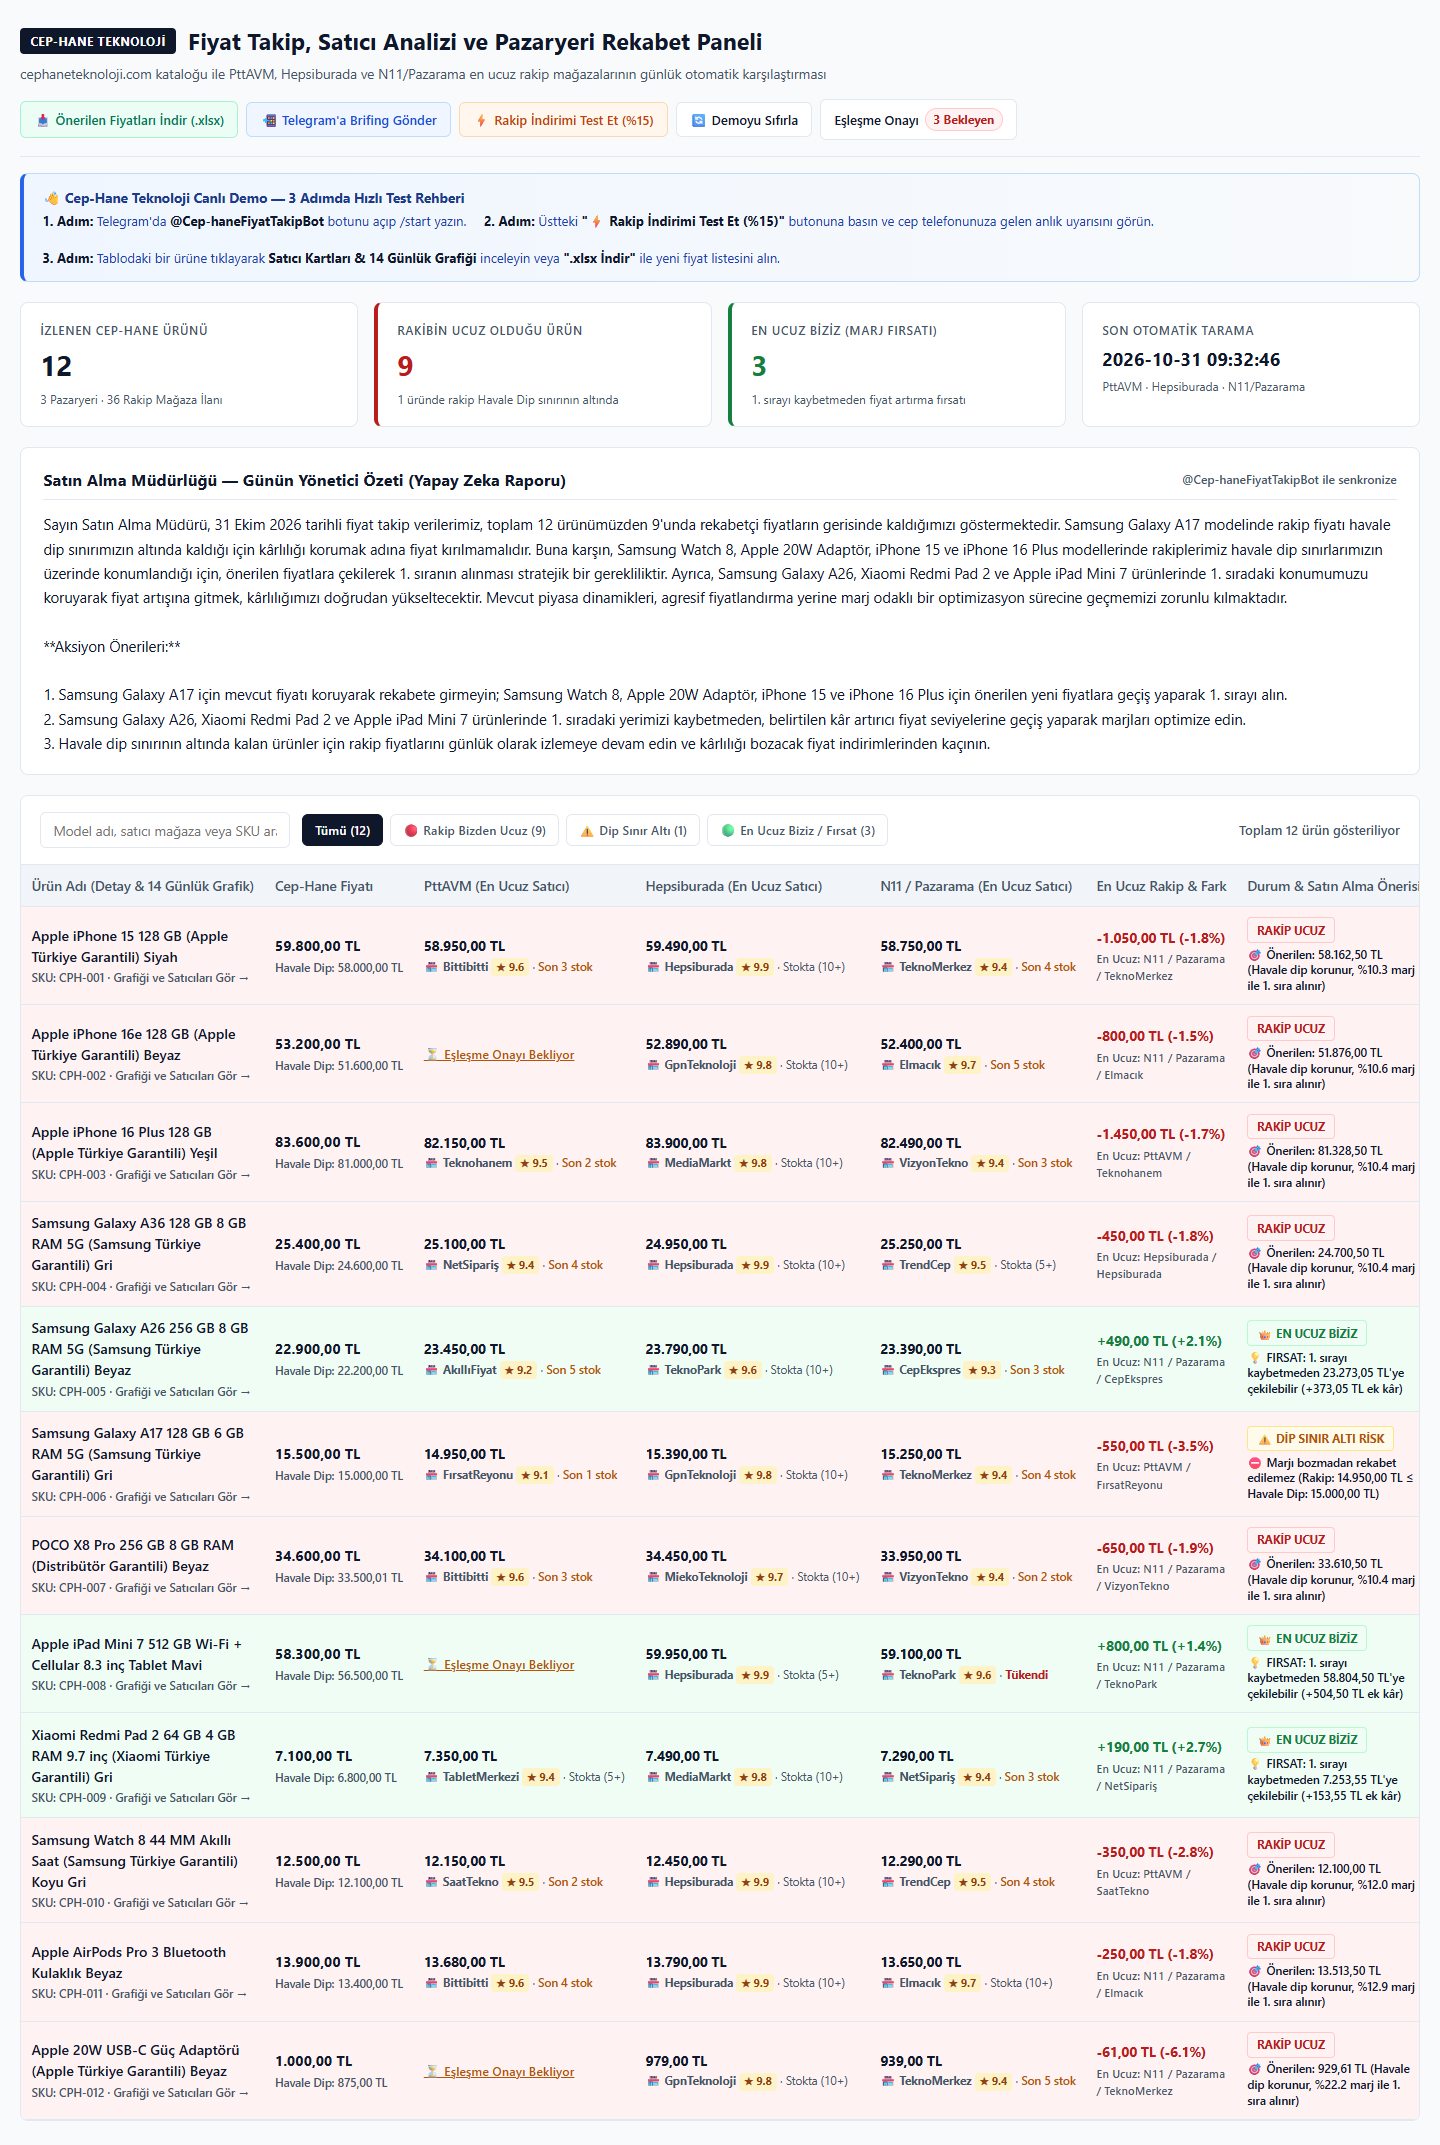
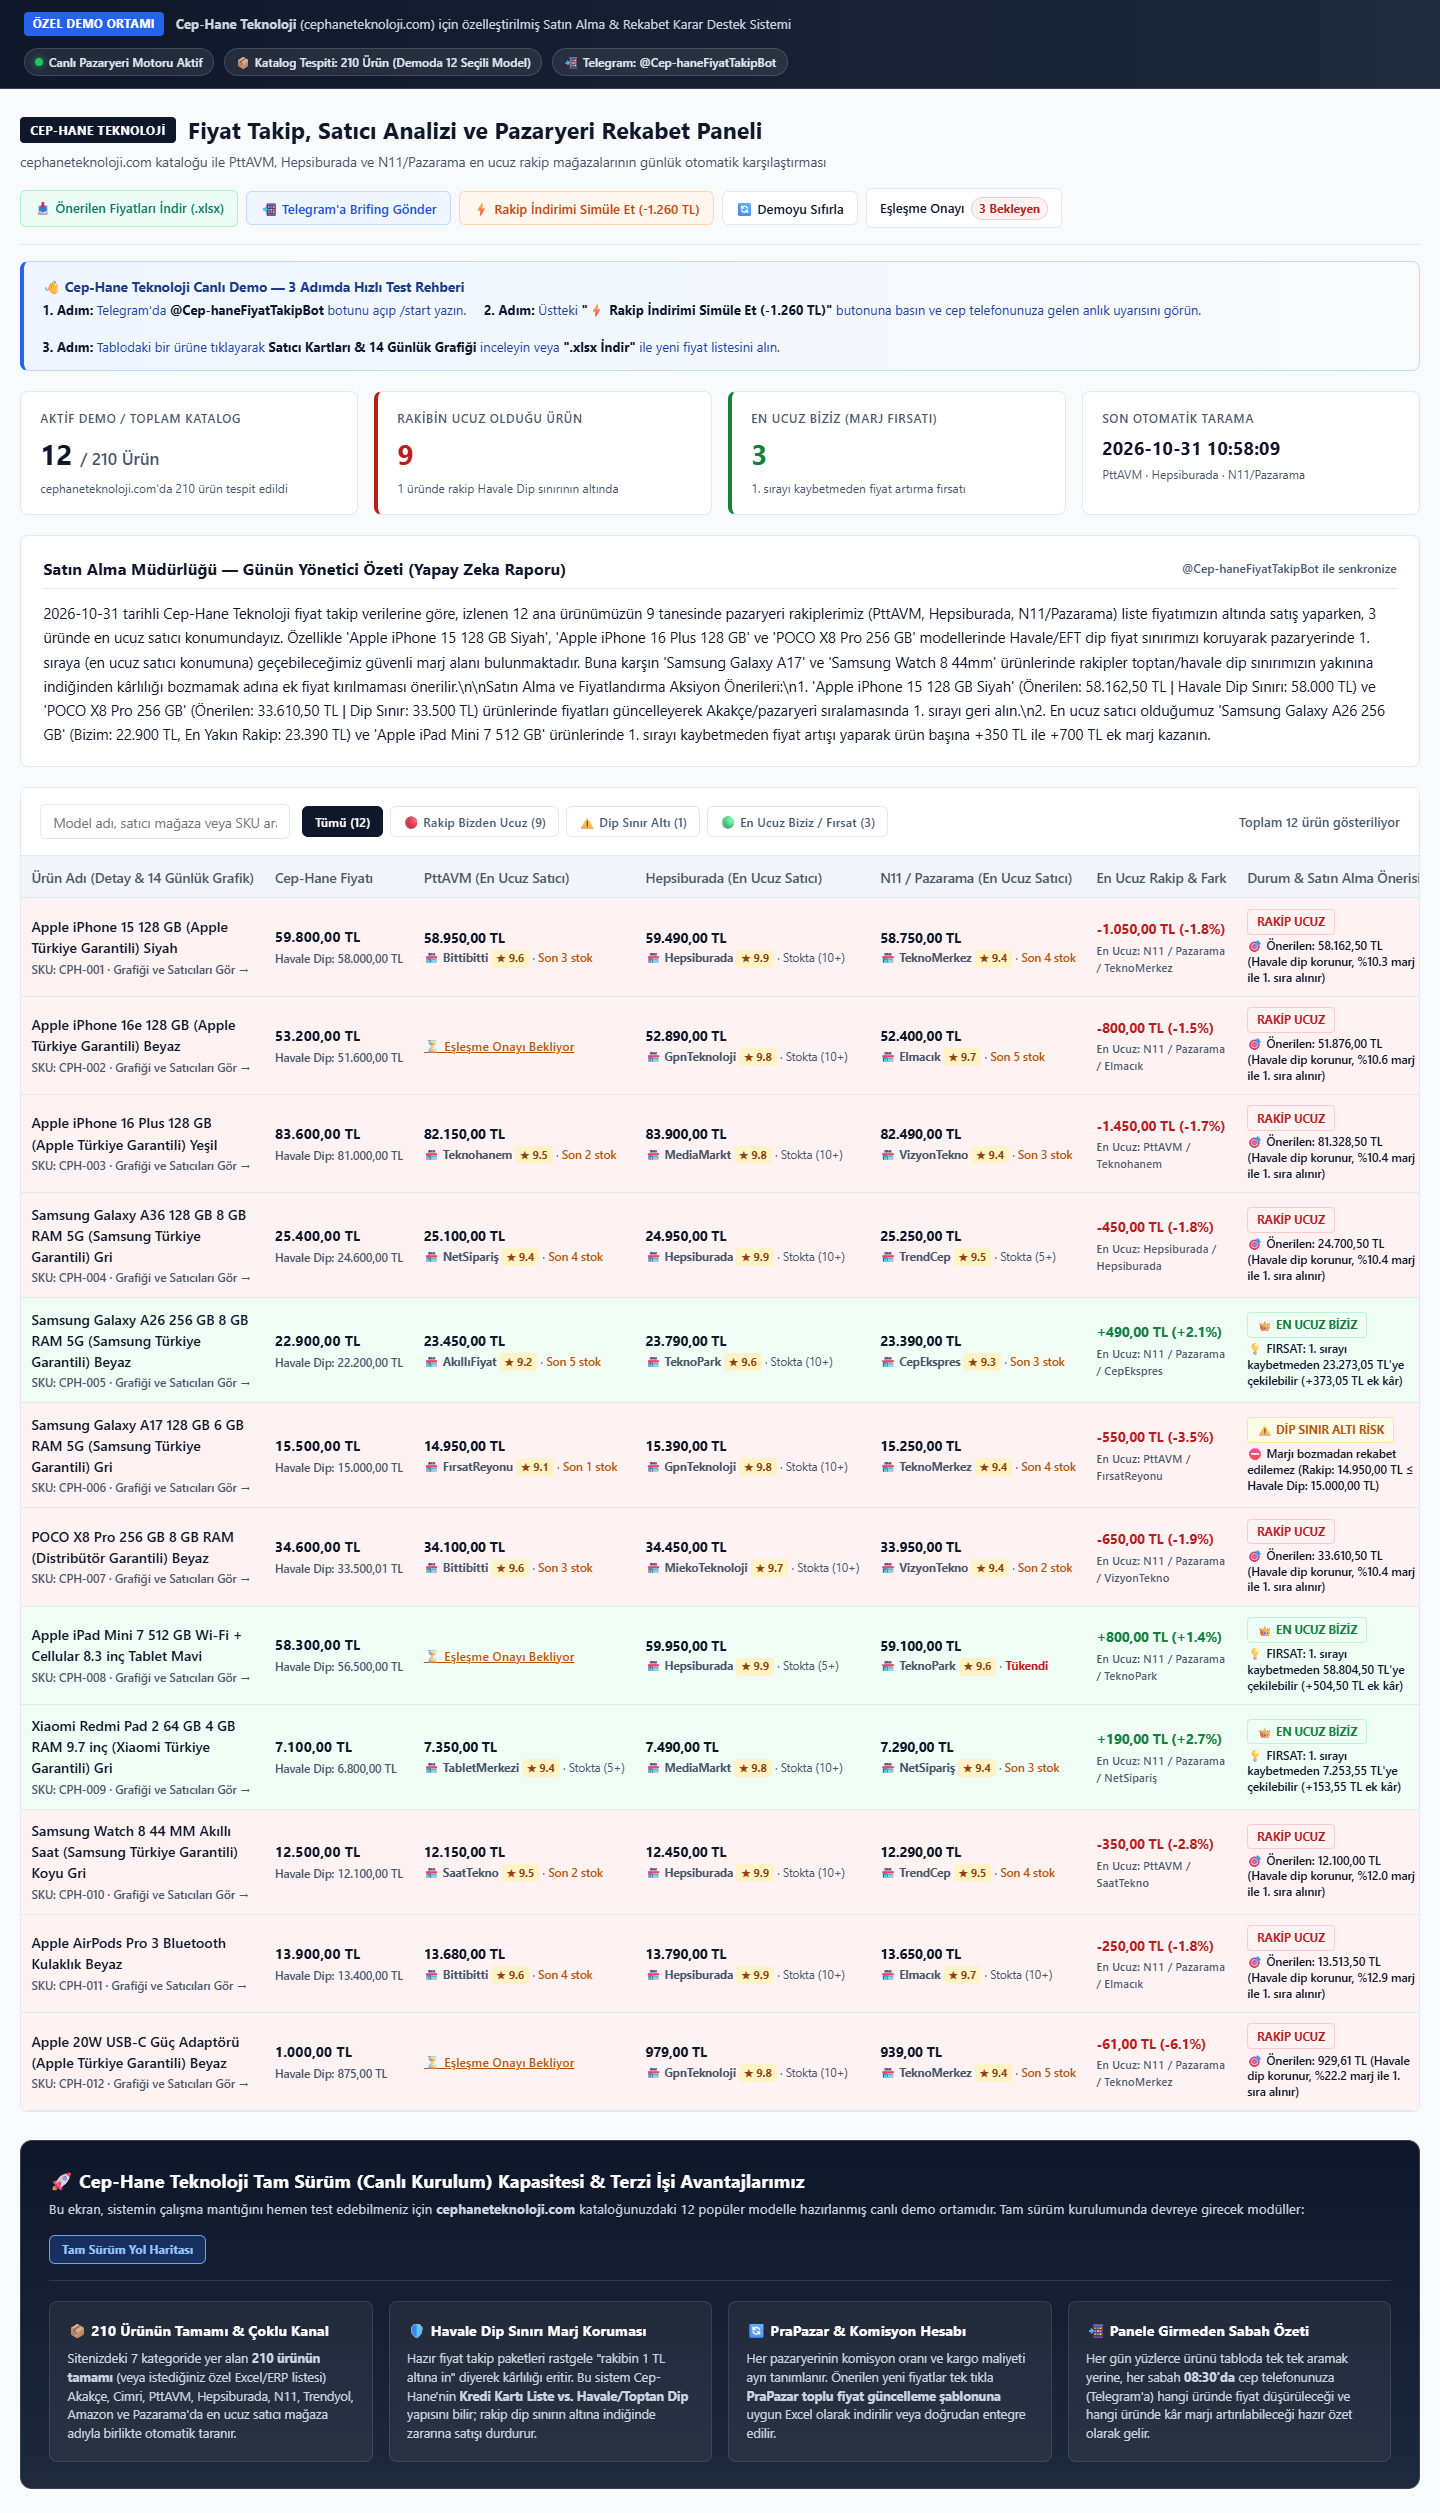
Enterprise topbar, 12/210 katalog tespiti, gercekci -1260 TL dip sinir senaryosu ve tam surum yol haritasi eklendi

diff --git a/src/fiyat_takip_sistemi/api/templates/index.html b/src/fiyat_takip_sistemi/api/templates/index.html
@@ -637,7 +637,145 @@
             font-weight: 600;
         }
 
+
+        /* Kurumsal Koyu Lacivert Üst Bar (Enterprise Topbar) */
+        .enterprise-topbar {
+            background: linear-gradient(90deg, #0f172a 0%, #1e293b 100%);
+            color: #f8fafc;
+            margin: -1.5rem -1.25rem 1.5rem -1.25rem;
+            padding: 0.75rem 1.5rem;
+            border-bottom: 1px solid #334155;
+        }
+
+        .enterprise-topbar-inner {
+            max-width: 1420px;
+            margin: 0 auto;
+            display: flex;
+            justify-content: space-between;
+            align-items: center;
+            flex-wrap: wrap;
+            gap: 0.75rem;
+        }
+
+        .topbar-left {
+            display: flex;
+            align-items: center;
+            gap: 0.75rem;
+            font-size: 0.82rem;
+            color: #cbd5e1;
+        }
+
+        .topbar-brand-pill {
+            background: #2563eb;
+            color: #ffffff;
+            font-weight: 700;
+            font-size: 0.72rem;
+            padding: 0.2rem 0.55rem;
+            border-radius: 0.25rem;
+            letter-spacing: 0.05em;
+            text-transform: uppercase;
+        }
+
+        .topbar-right {
+            display: flex;
+            align-items: center;
+            flex-wrap: wrap;
+            gap: 0.6rem;
+        }
+
+        .status-pill {
+            display: inline-flex;
+            align-items: center;
+            gap: 0.35rem;
+            background: rgba(255, 255, 255, 0.08);
+            border: 1px solid rgba(255, 255, 255, 0.14);
+            color: #e2e8f0;
+            font-size: 0.75rem;
+            font-weight: 600;
+            padding: 0.25rem 0.65rem;
+            border-radius: 9999px;
+        }
+
+        .dot-live {
+            width: 8px;
+            height: 8px;
+            border-radius: 50%;
+            background: #22c55e;
+            box-shadow: 0 0 8px #22c55e;
+        }
+
+        /* Tam Sürüm Yol Haritası & Farkımız Bölümü */
+        .roadmap-section {
+            margin-top: 1.75rem;
+            background: linear-gradient(180deg, #0f172a 0%, #1e293b 100%);
+            color: #f8fafc;
+            border-radius: 0.75rem;
+            padding: 1.6rem 1.75rem;
+            border: 1px solid #334155;
+        }
+
+        .roadmap-header {
+            display: flex;
+            justify-content: space-between;
+            align-items: flex-start;
+            flex-wrap: wrap;
+            gap: 1rem;
+            margin-bottom: 1.25rem;
+            padding-bottom: 1rem;
+            border-bottom: 1px solid rgba(255, 255, 255, 0.12);
+        }
+
+        .roadmap-header h2 {
+            font-size: 1.15rem;
+            font-weight: 700;
+            color: #ffffff;
+            margin-bottom: 0.25rem;
+        }
+
+        .roadmap-header p {
+            font-size: 0.84rem;
+            color: #cbd5e1;
+        }
+
+        .roadmap-tag {
+            background: rgba(37, 99, 235, 0.25);
+            border: 1px solid #60a5fa;
+            color: #93c5fd;
+            font-size: 0.75rem;
+            font-weight: 700;
+            padding: 0.3rem 0.75rem;
+            border-radius: 0.375rem;
+            white-space: nowrap;
+        }
+
+        .roadmap-grid {
+            display: grid;
+            grid-template-columns: repeat(4, 1fr);
+            gap: 1rem;
+        }
+
+        .roadmap-card {
+            background: rgba(255, 255, 255, 0.05);
+            border: 1px solid rgba(255, 255, 255, 0.1);
+            border-radius: 0.5rem;
+            padding: 1.1rem;
+        }
+
+        .roadmap-card h3 {
+            font-size: 0.9rem;
+            font-weight: 700;
+            color: #ffffff;
+            margin-bottom: 0.45rem;
+        }
+
+        .roadmap-card p {
+            font-size: 0.79rem;
+            color: #cbd5e1;
+            line-height: 1.5;
+        }
+
         @media (max-width: 900px) {
+            .roadmap-grid { grid-template-columns: 1fr; }
             body {
                 padding: 1rem 0.75rem;
             }
@@ -660,6 +798,19 @@
     </style>
 </head>
 <body>
+    <div class="enterprise-topbar">
+        <div class="enterprise-topbar-inner">
+            <div class="topbar-left">
+                <span class="topbar-brand-pill">ÖZEL DEMO ORTAMI</span>
+                <span><strong>Cep-Hane Teknoloji</strong> (cephaneteknoloji.com) için özelleştirilmiş Satın Alma &amp; Rekabet Karar Destek Sistemi</span>
+            </div>
+            <div class="topbar-right">
+                <span class="status-pill"><span class="dot-live"></span> Canlı Pazaryeri Motoru Aktif</span>
+                <span class="status-pill">📦 Katalog Tespiti: 210 Ürün (Demoda 12 Seçili Model)</span>
+                <span class="status-pill">📲 Telegram: @Cep-haneFiyatTakipBot</span>
+            </div>
+        </div>
+    </div>
     <div class="container">
         <header>
             <div>
@@ -680,7 +831,7 @@
                 </form>
                 <form method="post" action="/demo/fiyat-dusur" style="display:inline;">
                     <button type="submit" class="demo-action-btn btn-simulate" title="iPhone 15 128 GB ürününde N11/TeknoMerkez %15 anlık rakip indirimi simüle eder">
-                        ⚡ Rakip İndirimi Test Et (%15)
+                        ⚡ Rakip İndirimi Simüle Et (-1.260 TL)
                     </button>
                 </form>
                 <form method="post" action="/demo/sifirla" style="display:inline;">
@@ -705,7 +856,7 @@
                 <div class="guide-title">👋 Cep-Hane Teknoloji Canlı Demo — 3 Adımda Hızlı Test Rehberi</div>
                 <div class="guide-steps">
                     <span><strong>1. Adım:</strong> Telegram'da <strong>@Cep-haneFiyatTakipBot</strong> botunu açıp <code>/start</code> yazın.</span>
-                    <span><strong>2. Adım:</strong> Üstteki <strong>"⚡ Rakip İndirimi Test Et (%15)"</strong> butonuna basın ve cep telefonunuza gelen anlık uyarısını görün.</span>
+                    <span><strong>2. Adım:</strong> Üstteki <strong>"⚡ Rakip İndirimi Simüle Et (-1.260 TL)"</strong> butonuna basın ve cep telefonunuza gelen anlık uyarısını görün.</span>
                     <span><strong>3. Adım:</strong> Tablodaki bir ürüne tıklayarak <strong>Satıcı Kartları &amp; 14 Günlük Grafiği</strong> inceleyin veya <strong>".xlsx İndir"</strong> ile yeni fiyat listesini alın.</span>
                 </div>
             </div>
@@ -716,9 +867,9 @@
         <!-- 1. Üstte 4 Özet Kutusu -->
         <section class="summary-grid">
             <div class="summary-card">
-                <div class="summary-label">İzlenen Cep-Hane Ürünü</div>
-                <div class="summary-value">{{ ozet.toplam_urun }}</div>
-                <div class="summary-sub">3 Pazaryeri · 36 Rakip Mağaza İlanı</div>
+                <div class="summary-label">Aktif Demo / Toplam Katalog</div>
+                <div class="summary-value">{{ ozet.toplam_urun }} <span style="font-size:1.05rem;color:var(--text-muted);font-weight:600;">/ 210 Ürün</span></div>
+                <div class="summary-sub">cephaneteknoloji.com'da 210 ürün tespit edildi</div>
             </div>
             <div class="summary-card card-danger">
                 <div class="summary-label">Rakibin Ucuz Olduğu Ürün</div>
@@ -879,6 +1030,36 @@
                 </div>
             </div>
         </section>
+
+        <!-- 4. Tam Sürüm Kapasitesi ve Hazır Sistemlerden Farkımız -->
+        <section class="roadmap-section">
+            <div class="roadmap-header">
+                <div>
+                    <h2>🚀 Cep-Hane Teknoloji Tam Sürüm (Canlı Kurulum) Kapasitesi &amp; Terzi İşi Avantajlarımız</h2>
+                    <p>Bu ekran, sistemin çalışma mantığını hemen test edebilmeniz için <strong>cephaneteknoloji.com</strong> kataloğunuzdaki 12 popüler modelle hazırlanmış canlı demo ortamıdır. Tam sürüm kurulumunda devreye girecek modüller:</p>
+                </div>
+                <span class="roadmap-tag">Tam Sürüm Yol Haritası</span>
+            </div>
+            <div class="roadmap-grid">
+                <div class="roadmap-card">
+                    <h3>📦 210 Ürünün Tamamı &amp; Çoklu Kanal</h3>
+                    <p>Sitenizdeki 7 kategoride yer alan <strong>210 ürünün tamamı</strong> (veya istediğiniz özel Excel/ERP listesi) Akakçe, Cimri, PttAVM, Hepsiburada, N11, Trendyol, Amazon ve Pazarama'da en ucuz satıcı mağaza adıyla birlikte otomatik taranır.</p>
+                </div>
+                <div class="roadmap-card">
+                    <h3>🛡 Havale Dip Sınırı Marj Koruması</h3>
+                    <p>Hazır fiyat takip paketleri rastgele "rakibin 1 TL altına in" diyerek kârlılığı eritir. Bu sistem Cep-Hane'nin <strong>Kredi Kartı Liste vs. Havale/Toptan Dip</strong> yapısını bilir; rakip dip sınırın altına indiğinde zararına satışı durdurur.</p>
+                </div>
+                <div class="roadmap-card">
+                    <h3>🔄 PraPazar &amp; Komisyon Hesabı</h3>
+                    <p>Her pazaryerinin komisyon oranı ve kargo maliyeti ayrı tanımlanır. Önerilen yeni fiyatlar tek tıkla <strong>PraPazar toplu fiyat güncelleme şablonuna</strong> uygun Excel olarak indirilir veya doğrudan entegre edilir.</p>
+                </div>
+                <div class="roadmap-card">
+                    <h3>📲 Panele Girmeden Sabah Özeti</h3>
+                    <p>Her gün yüzlerce ürünü tabloda tek tek aramak yerine, her sabah <strong>08:30'da</strong> cep telefonunuza (Telegram'a) hangi üründe fiyat düşürüleceği ve hangi üründe kâr marjı artırılabileceği hazır özet olarak gelir.</p>
+                </div>
+            </div>
+        </section>
+
     </div>
 
 
@@ -911,7 +1092,7 @@
                 if (bildirim === "telegram_gonderildi") {
                     toastBanner.textContent = "✓ Günlük yönetici özeti ve satıcı bazlı kritik fiyat uyarıları @Cep-haneFiyatTakipBot üzerinden Telegram'a gönderildi!";
                 } else if (bildirim === "indirim_simule_edildi") {
-                    toastBanner.textContent = "⚡ Canlı Senaryo: Apple iPhone 15 128 GB modelinde N11 / TeknoMerkez (★9.4) mağazasında %15 indirim simüle edildi, tablo güncellendi ve Telegram'a acil uyarı geçildi!";
+                    toastBanner.textContent = "⚡ Canlı Senaryo: Apple iPhone 15 128 GB modelinde N11 / TeknoMerkez (★9.4) fiyatı 58.750 TL'den 57.490 TL'ye (-1.260 TL) çekildi! Rakip Havale Dip sınırınızın (58.000 TL) altına indiği için 'DİP SINIR ALTI RİSK' koruması devreye girdi ve Telegram'a acil uyarı gönderildi!";
                 } else if (bildirim === "demo_sifirlandi") {
                     toastBanner.textContent = "🔄 Demo veritabanı, pazaryeri satıcı fiyatları ve 3 onay bekleyen eşleşme başlangıç durumuna sıfırlandı.";
                 }
@@ -965,7 +1146,7 @@
             const scenarios = {
                 "/demo/fiyat-dusur": {
                     title: "⚡ Canlı Rakip İndirimi Simüle Ediliyor...",
-                    sub: "Apple iPhone 15 128 GB modelinde N11 / TeknoMerkez (%15 indirim) işleniyor:",
+                    sub: "Apple iPhone 15 128 GB modelinde N11 / TeknoMerkez (58.750 TL ➔ 57.490 TL) Havale dip sınır altı senaryosu işleniyor:",
                     steps: [
                         "🔍 1/4 — N11 / TeknoMerkez mağazasındaki yeni fiyat veritabanına kaydediliyor...",
                         "🧮 2/4 — Havale Dip Sınırı (58.000 TL) ve marj kuralları hesaplanıyor...",

diff --git a/src/fiyat_takip_sistemi/api/main.py b/src/fiyat_takip_sistemi/api/main.py
@@ -687,8 +687,9 @@ def post_demo_price_drop(db: Session = Depends(get_db)):
             .order_by(desc(PriceSnapshot.cekilme_zamani), desc(PriceSnapshot.id))
             .first()
         )
-        old_price = latest.fiyat if latest else 59600.0
-        new_price = round(old_price * 0.85, 2)
+        old_price = latest.fiyat if latest else 58750.0
+        # Gerçekçi elektronik kampanya indirimi: 58.750 TL -> 57.490 TL (-1.260 TL, Havale dip sınırı 58.000 TL'nin altına sarkma senaryosu)
+        new_price = 57490.0 if old_price > 57500.0 else round(old_price - 500.0, 2)
         snap = PriceSnapshot(
             competitor_id=comp_c.id,
             ham_urun_adi=target_name,

diff --git a/src/fiyat_takip_sistemi/core/rules.py b/src/fiyat_takip_sistemi/core/rules.py
@@ -122,7 +122,7 @@ def evaluate_rules(db: Session) -> List[Alert]:
             price_drop = prev_snap.fiyat - latest_snap.fiyat
             drop_pct = (price_drop / prev_snap.fiyat) * 100.0
 
-            if drop_pct >= 5.0:
+            if drop_pct >= 2.0 or price_drop >= 1000.0:
                 alerts.append(
                     Alert(
                         rule_type=RuleType.FIYAT_DUSTU,
